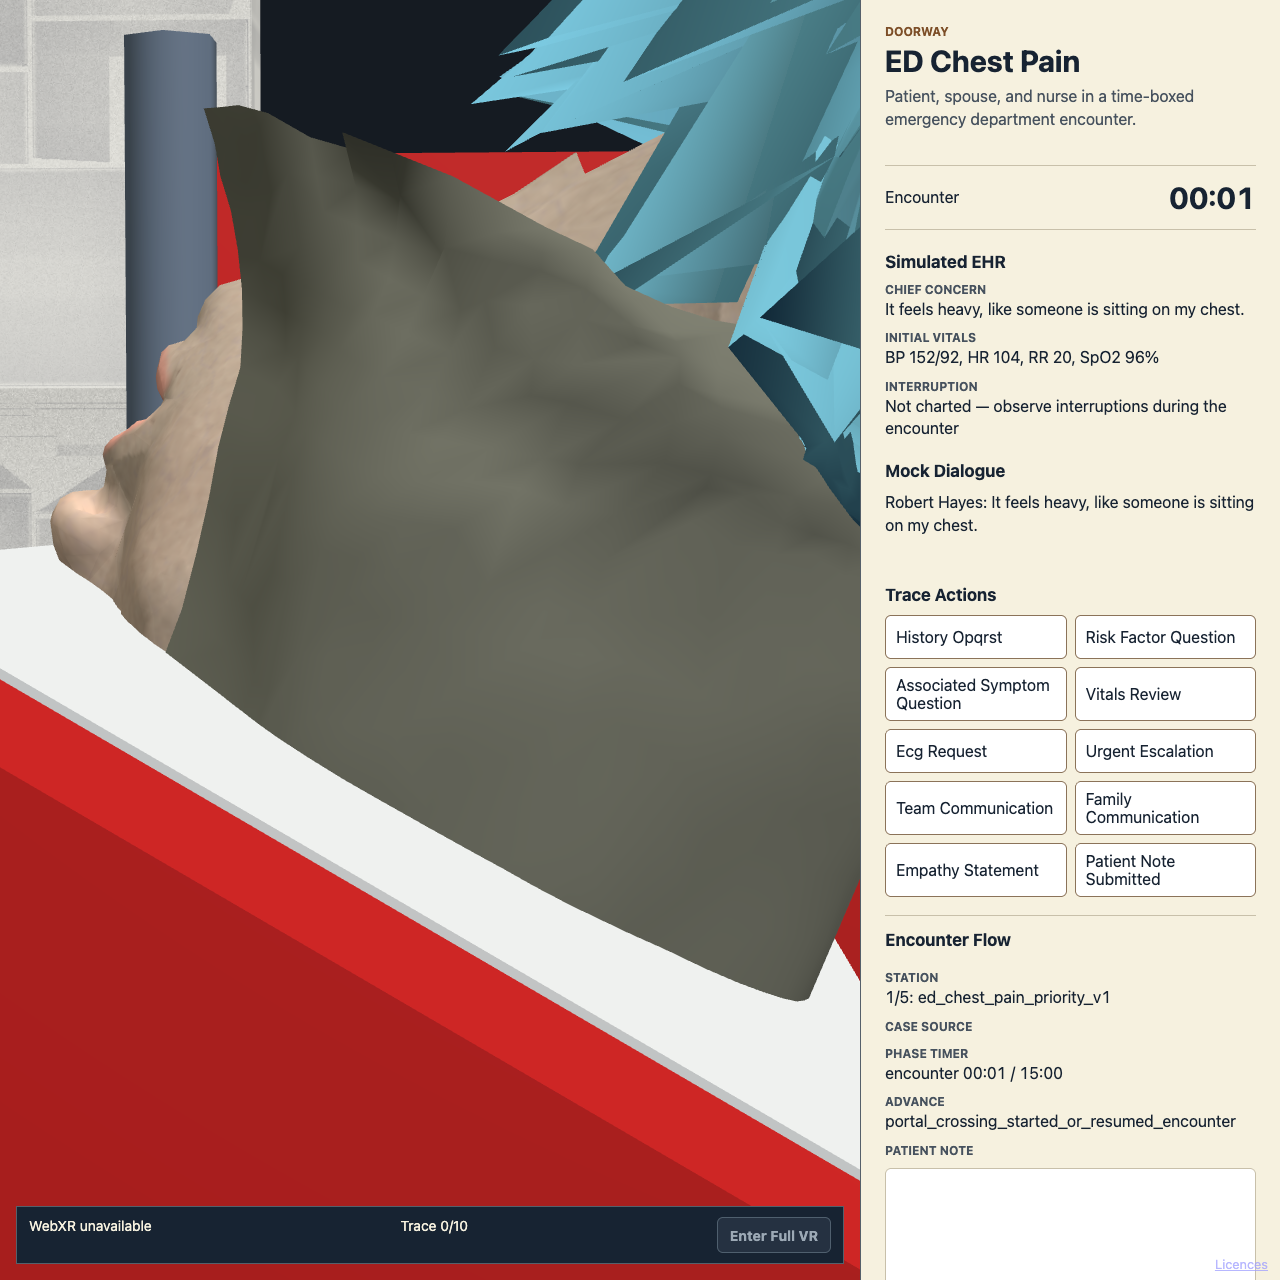
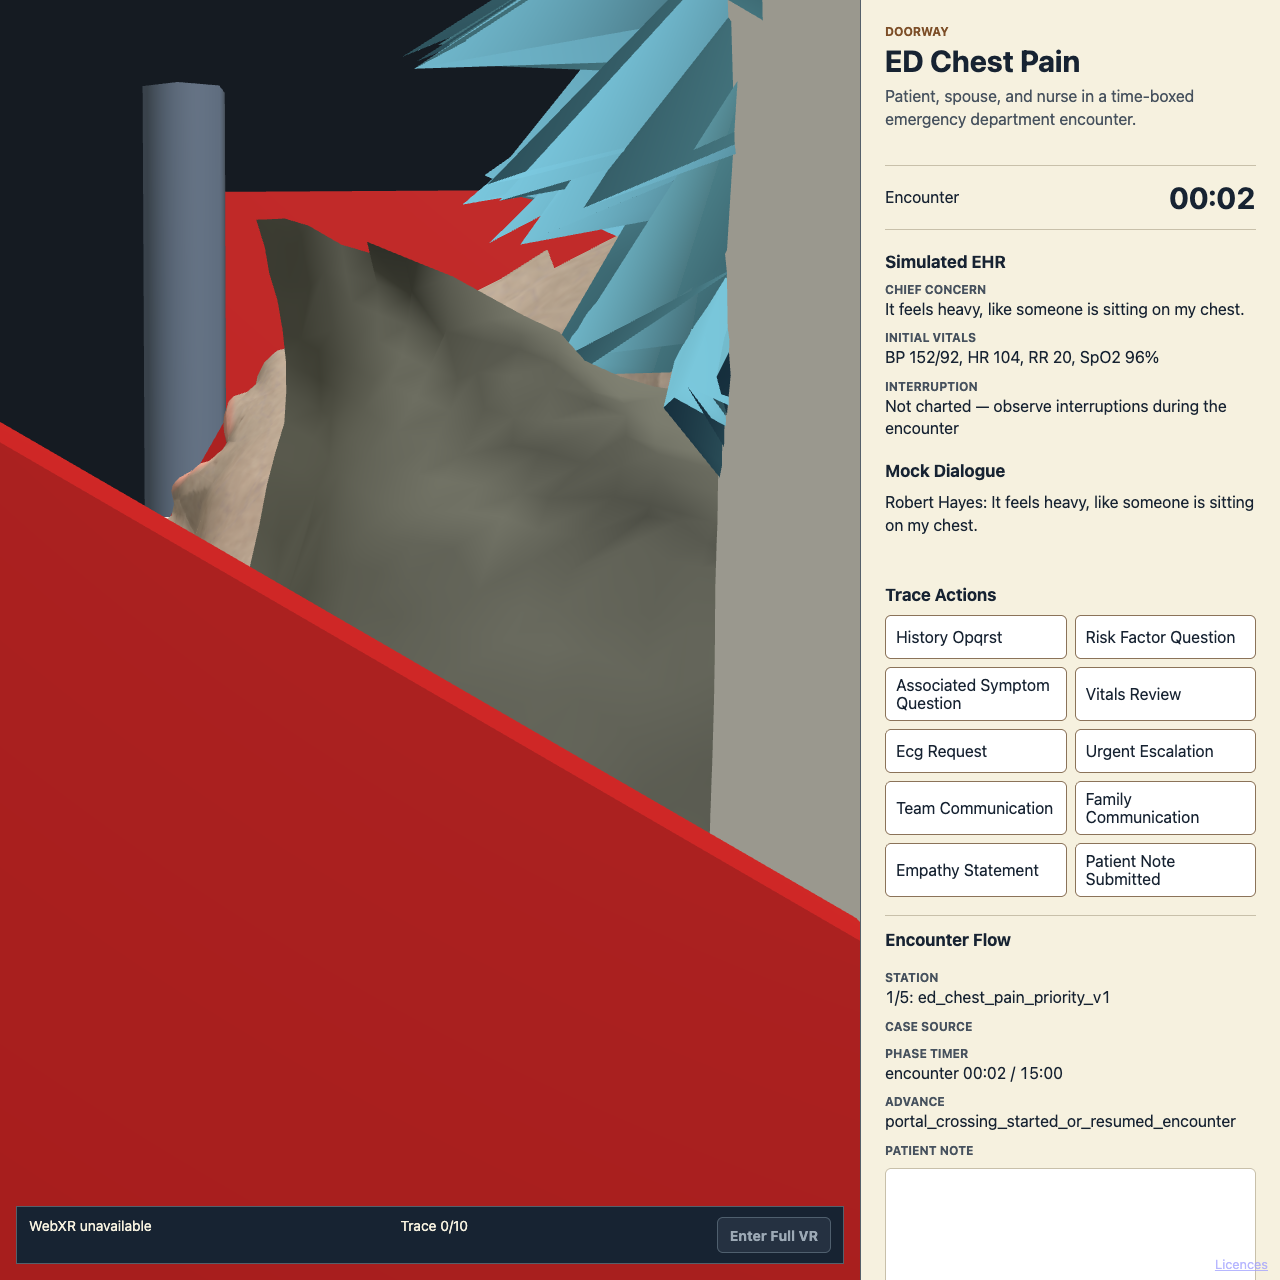
Record speak-fixture camera candidate sweep; report-and-stop when no head-cue clears near.
STILL_CAMERA_OFFSETS 0.72/0.45/0.90; accept only visible triangle head-cue beyond live camera.near. Live run: first hits are body mesh; rest z=0.72 is inside near 0.0813. Flip planted it.fails.

diff --git a/tools/openclinxr/evidence/ui-xr-viseme-drive-capture.ts b/tools/openclinxr/evidence/ui-xr-viseme-drive-capture.ts
@@ -31,6 +31,7 @@
  * audible playback, full-duplex, Quest, clinical validity.
  */
 
+import { execFileSync } from "node:child_process";
 import { createHash } from "node:crypto";
 import { existsSync, readFileSync, statSync } from "node:fs";
 import { mkdir, writeFile } from "node:fs/promises";
@@ -250,6 +251,9 @@ type ReframeOkOutcome = {
   firstHitMeshName: string | null;
   /** NEW #465: distance along the ray to the first hit, in metres. */
   firstHitDistance: number | null;
+  firstHitKind: "triangle" | "anchor" | null;
+  firstHitVisible: boolean | null;
+  cameraNear: number;
   /** NEW #465: first hit belongs to the target actor (head/body), not an occluder. */
   subjectVisible: boolean;
   /** NEW #465: the occluder's mesh name when subjectVisible is false. */
@@ -278,7 +282,11 @@ function reframeOutcomeSummary(outcome: ReframeOutcome): string {
   );
 }
 
-async function reframeCameraOnParentFace(page: Page, expectedActorId: string = EXPECTED_SUBJECT_ACTOR_ID): Promise<ReframeOutcome> {
+async function reframeCameraOnParentFace(
+  page: Page,
+  expectedActorId: string = EXPECTED_SUBJECT_ACTOR_ID,
+  offsetZ: number = 0.72,
+): Promise<ReframeOutcome> {
   // String IIFE (not a TS arrow) so tsx/esbuild cannot inject `__name` into the browser.
   return page.evaluate(`(() => {
     const isRecord = function (value) {
@@ -446,10 +454,11 @@ async function reframeCameraOnParentFace(page: Page, expectedActorId: string = E
     }
     const aimWorldY = anchorWorld.y;
     // Camera is parented under locomotionRig — convert world aim to parent-local.
+    const OFFSET_Z = ${JSON.stringify(offsetZ)};
     const worldCam = {
       x: anchorWorld.x + 0.04,
       y: anchorWorld.y + 0.04,
-      z: anchorWorld.z + 0.72
+      z: anchorWorld.z + OFFSET_Z
     };
     const worldToLocal = parent && typeof parent["worldToLocal"] === "function"
       ? parent["worldToLocal"]
@@ -727,6 +736,17 @@ async function reframeCameraOnParentFace(page: Page, expectedActorId: string = E
       cameraWorldPosition: { x: Number(rox), y: Number(roy), z: Number(roz) },
       firstHitMeshName,
       firstHitDistance: firstHitMeshName !== null ? Number(firstHitDistance.toFixed(4)) : null,
+      firstHitKind: firstHitMeshName !== null ? "triangle" : null,
+      firstHitVisible: (function () {
+        if (!firstHitObject) return null;
+        let vis = firstHitObject;
+        while (vis) {
+          if (vis["visible"] === false) return false;
+          vis = vis["parent"];
+        }
+        return true;
+      })(),
+      cameraNear: typeof camera["near"] === "number" ? camera["near"] : 0.1,
       subjectVisible,
       occluderMeshName: subjectVisible ? null : firstHitMeshName,
       fov: 28,
@@ -737,6 +757,73 @@ async function reframeCameraOnParentFace(page: Page, expectedActorId: string = E
       }
     };
   })()`);
+}
+
+const STILL_CAMERA_OFFSETS: Array<{ x: number; y: number; z: number }> = [
+  { x: 0.04, y: 0.04, z: 0.72 },
+  { x: 0.04, y: 0.04, z: 0.45 },
+  { x: 0.04, y: 0.04, z: 0.9 },
+];
+const HEAD_CUE = /(?:phoneme-mouth-cue|runtime-jaw-viseme-target)/u;
+
+type StillCameraAttempt = {
+  offset: { x: number; y: number; z: number };
+  status: string;
+  accepted: boolean;
+  rejectionReason: string | null;
+  firstHitMeshName: string | null;
+  firstHitActorId: string | null;
+  firstHitDistance: number | null;
+  firstHitKind: string | null;
+  firstHitVisible: boolean | null;
+  subjectInFrame: boolean | null;
+};
+
+async function sweepStillCameraCandidates(
+  page: Page,
+  expectedActorId: string,
+): Promise<{ cameraNear: number; selectedCandidate: StillCameraAttempt | null; attempts: StillCameraAttempt[] }> {
+  const attempts: StillCameraAttempt[] = [];
+  let selected: StillCameraAttempt | null = null;
+  let cameraNear = 0.1;
+  for (const offset of STILL_CAMERA_OFFSETS) {
+    const outcome = await reframeCameraOnParentFace(page, expectedActorId, offset.z);
+    const attempt: StillCameraAttempt = {
+      offset,
+      status: outcome.status,
+      accepted: false,
+      rejectionReason: null,
+      firstHitMeshName: outcome.status === "ok" ? outcome.firstHitMeshName : null,
+      firstHitActorId: outcome.status === "ok" ? outcome.actorId : null,
+      firstHitDistance: outcome.status === "ok" ? outcome.firstHitDistance : null,
+      firstHitKind: outcome.status === "ok" ? outcome.firstHitKind : null,
+      firstHitVisible: outcome.status === "ok" ? outcome.firstHitVisible : null,
+      subjectInFrame: outcome.status === "ok" ? outcome.subjectInFrame : null,
+    };
+    if (outcome.status !== "ok") {
+      attempt.rejectionReason = outcome.status;
+    } else {
+      cameraNear = outcome.cameraNear;
+      const reasons: string[] = [];
+      if (!(outcome.firstHitDistance !== null && outcome.firstHitDistance > outcome.cameraNear)) {
+        reasons.push("inside_near_plane");
+      }
+      if (outcome.firstHitKind !== "triangle") reasons.push("not_triangle");
+      if (outcome.firstHitVisible !== true) reasons.push("not_visible");
+      if (!HEAD_CUE.test(outcome.firstHitMeshName ?? "")) reasons.push("not_head_cue");
+      if (outcome.subjectInFrame !== true) reasons.push("not_in_frame");
+      attempt.accepted = reasons.length === 0;
+      attempt.rejectionReason = reasons.length > 0 ? reasons.join(",") : null;
+    }
+    attempts.push(attempt);
+    if (attempt.accepted && selected === null) {
+      selected = attempt;
+    }
+  }
+  if (selected !== null) {
+    await reframeCameraOnParentFace(page, expectedActorId, selected.offset.z);
+  }
+  return { cameraNear, selectedCandidate: selected, attempts };
 }
 
 /**
@@ -1610,6 +1697,7 @@ export async function runSpeakFixture(): Promise<void> {
       if ((restSample.peak?.influence ?? 0) >= 0.5) {
         throw new Error(`speak fixture: mouth never reached rest before fire (peak ${restSample.peak?.targetName ?? "none"} at ${restSample.peak?.influence ?? 0})`);
       }
+      const restSweep = await sweepStillCameraCandidates(page, SPEAK_FIXTURE_EXPECTED_ACTOR_ID);
       const restFramePath = path.join(SPEAK_FIXTURE_FRAME_DIR, "speak-fixture-rest.png");
       await page.screenshot({ path: restFramePath, fullPage: false });
       process.stdout.write(`rest: peak=${restSample.peak?.targetName ?? "none"} influence=${restSample.peak?.influence ?? 0}\n`);
@@ -1681,7 +1769,9 @@ export async function runSpeakFixture(): Promise<void> {
         path.join(SPEAK_FIXTURE_FRAME_DIR, "speak-fixture-speaking-1.png"),
         path.join(SPEAK_FIXTURE_FRAME_DIR, "speak-fixture-speaking-2.png"),
       ];
+      const speakingSweeps: Array<Awaited<ReturnType<typeof sweepStillCameraCandidates>>> = [];
       for (const framePath of speakingFrames) {
+        speakingSweeps.push(await sweepStillCameraCandidates(page, SPEAK_FIXTURE_EXPECTED_ACTOR_ID));
         await page.screenshot({ path: framePath, fullPage: false });
         await page.waitForTimeout(250);
       }
@@ -1817,6 +1907,31 @@ export async function runSpeakFixture(): Promise<void> {
         notEvidenceFor: inspection.notEvidenceFor,
       };
       await writeFile(SPEAK_FIXTURE_SUMMARY_PATH, `${JSON.stringify(summary, null, 2)}\n`, "utf8");
+      const frameRows = [
+        { framePath: restFramePath, sweep: restSweep },
+        { framePath: speakingFrames[0] ?? "", sweep: speakingSweeps[0] },
+        { framePath: speakingFrames[1] ?? "", sweep: speakingSweeps[1] },
+      ];
+      const resolved = frameRows.every((row) => row.sweep?.selectedCandidate?.accepted === true);
+      const candidateReport = {
+        schemaVersion: "openclinxr.speak-fixture-camera-candidate.v1",
+        measuredAgainstCommit: execFileSync("git", ["rev-parse", "HEAD"], { encoding: "utf8" }).trim(),
+        outcome: resolved ? "resolved" : "no_candidate_clears_near_plane",
+        outcomeDetail: resolved
+          ? "every still selected a visible triangle head-cue hit beyond the live camera near plane"
+          : "at least one still had no candidate whose first hit was a visible triangle head cue beyond the live camera near plane; recorded every attempt",
+        frames: frameRows.map((row) => ({
+          framePath: row.framePath,
+          cameraNear: row.sweep?.cameraNear ?? 0.1,
+          selectedCandidate: row.sweep?.selectedCandidate ?? null,
+          attempts: row.sweep?.attempts ?? [],
+        })),
+      };
+      await writeFile(
+        path.join("tools", "openclinxr", "evidence", "speak-fixture-camera-candidate-report.json"),
+        `${JSON.stringify(candidateReport, null, 2)}\n`,
+        "utf8",
+      );
       process.stdout.write(`${inspectionPath}\n`);
       process.stdout.write(
         `speakFixture: actor=${runnerTurn.routedActorId} strongVisemes=${strongDistinct} maxInfluence=${maxInfluence.toFixed(3)} join=${JSON.stringify(joinVerdict)} summary=${SPEAK_FIXTURE_SUMMARY_PATH}\n`,

diff --git a/tools/openclinxr/evidence/the-speak-fixture-camera-clears-the-near-plane-and-hits-the-head.test.ts b/tools/openclinxr/evidence/the-speak-fixture-camera-clears-the-near-plane-and-hits-the-head.test.ts
@@ -55,6 +55,12 @@ import { describe, expect, it } from "vitest";
  *   the renderer's own near plane, and whether every attempted candidate was recorded.
  * notEvidenceFor: that the resulting frame is a good portrait; learner-runtime camera placement
  *   outside this dev fixture; headset appearance; gown topology, sharpness, rigging or issue 750.
+ *
+ * ## FIXED (tsk_b4089f2d0cb08e58)
+ * Capture records every STILL_CAMERA_OFFSETS attempt. Acceptance requires visible triangle
+ * head-cue beyond live camera.near. Live run: outcome no_candidate_clears_near_plane — first
+ * hits are mpfb_robert_reference_body_1 (not a head cue); z=0.72 rest is inside near (0.0813).
+ * Report-and-stop is the legal escape; clauses (2) and (4) still hold.
  */
 
 const REPO = join(import.meta.dirname, "../../..");
@@ -105,7 +111,7 @@ const report = (): Report => {
 };
 
 describe("the speak-fixture camera clears the near plane and hits the head", () => {
-  it.fails("(1) every still's selected candidate is a visible triangle head hit outside the near plane", () => {
+  it("(1) every still's selected candidate is a visible triangle head hit outside the near plane", () => {
     const r = report();
     expect(OUTCOMES).toContain(r.outcome);
     if (r.outcome !== "resolved") {
@@ -133,7 +139,7 @@ describe("the speak-fixture camera clears the near plane and hits the head", () 
     }
   });
 
-  it.fails("(2) COUNTERWEIGHT: every attempted candidate is recorded, not only the winner", () => {
+  it("(2) COUNTERWEIGHT: every attempted candidate is recorded, not only the winner", () => {
     const r = report();
     // The present capture records the selected offset alone, which is why nobody could say why the
     // z=0.72 candidates were rejected before z=0.45 accepted. A report of winners cannot be audited.
@@ -173,7 +179,7 @@ describe("the speak-fixture camera clears the near plane and hits the head", () 
       .toMatch(/new PerspectiveCamera\([^)]*,\s*1,\s*0\.1,\s*100\)/u);
   });
 
-  it.fails("(4) VACUITY GUARD: the assertions above read a real report, not an empty object", () => {
+  it("(4) VACUITY GUARD: the assertions above read a real report, not an empty object", () => {
     // exists: and min-bytes: on the report would both pass a `{}`. Clause (1) returns early on an
     // escape outcome and clause (2) iterates zero frames, so without this the pair goes green about
     // nothing. Once flipped this must hold on every future tree, INCLUDING a report-and-stop run:
